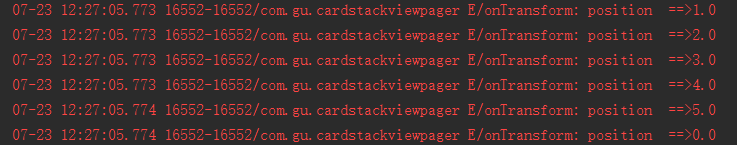
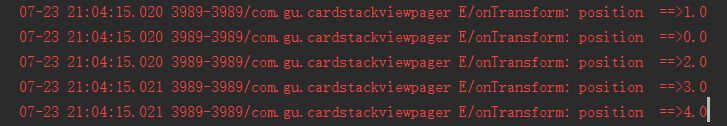
修改viewpager点击的bug

Changed region(s): [[0.0, 0.3571, 0.9986, 0.9762], [0.0, 0.1905, 0.9986, 0.3571], [0.0, 0.0238, 0.9986, 0.1429]]

diff --git a/app/src/main/java/com/gu/cardstackviewpager/activity/HomeActivity.java b/app/src/main/java/com/gu/cardstackviewpager/activity/HomeActivity.java
@@ -42,7 +42,7 @@ public class HomeActivity extends AppCompatActivity {
         //设置viewpager的方向为竖直
         mOrientedViewPager.setOrientation(OrientedViewPager.Orientation.VERTICAL);
         //设置limit
-        mOrientedViewPager.setOffscreenPageLimit(5);
+        mOrientedViewPager.setOffscreenPageLimit(4);
         //设置transformer
         mOrientedViewPager.setPageTransformer(true, new VerticalStackTransformer(getApplicationContext()));
         mOrientedViewPager.setAdapter(mContentFragmentAdapter);
